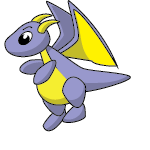
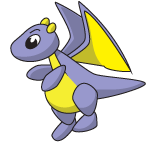
Added art for Skeleton, Baby Dragon, Scorpion and Crab

diff --git a/Classes/Helpers/CoreDataHelper.m b/Classes/Helpers/CoreDataHelper.m
@@ -677,15 +677,15 @@
 {
     [PartyData removeAll];
     
-    NSArray *monsters = @[[MonsterData monsterWithName:@"Caterpillar"],
+    NSArray *monsters = @[[MonsterData monsterWithName:@"Baby Dragon"],
                           [MonsterData monsterWithName:@"Viper"],
-                          [MonsterData monsterWithName:@"Fire Elemental"]];
+                          [MonsterData monsterWithName:@"Skeleton"]];
     
     [PartyData insertPartyWithName:@"Player Party" monsters:monsters];
     
     monsters = @[[MonsterData monsterWithName:@"Wisp"],
-                 [MonsterData monsterWithName:@"Small Blob"],
-                 [MonsterData monsterWithName:@"Hard Shell"]];
+                 [MonsterData monsterWithName:@"Scorpion"],
+                 [MonsterData monsterWithName:@"Crab"]];
     
     [PartyData insertPartyWithName:@"AI Party" monsters:monsters];
     
